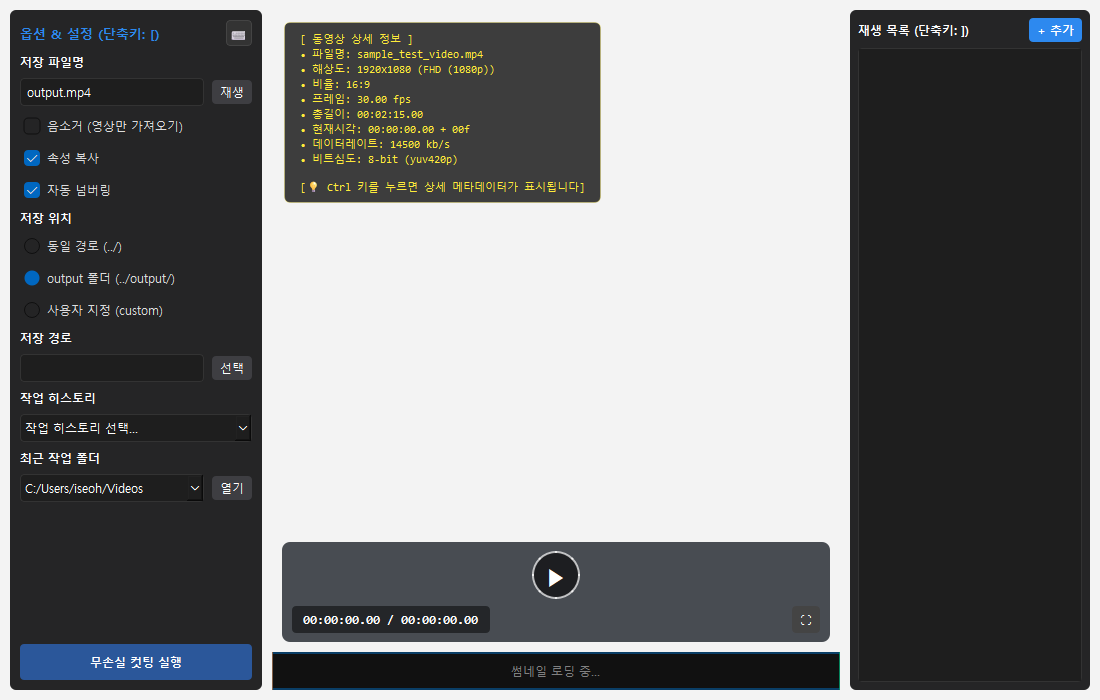
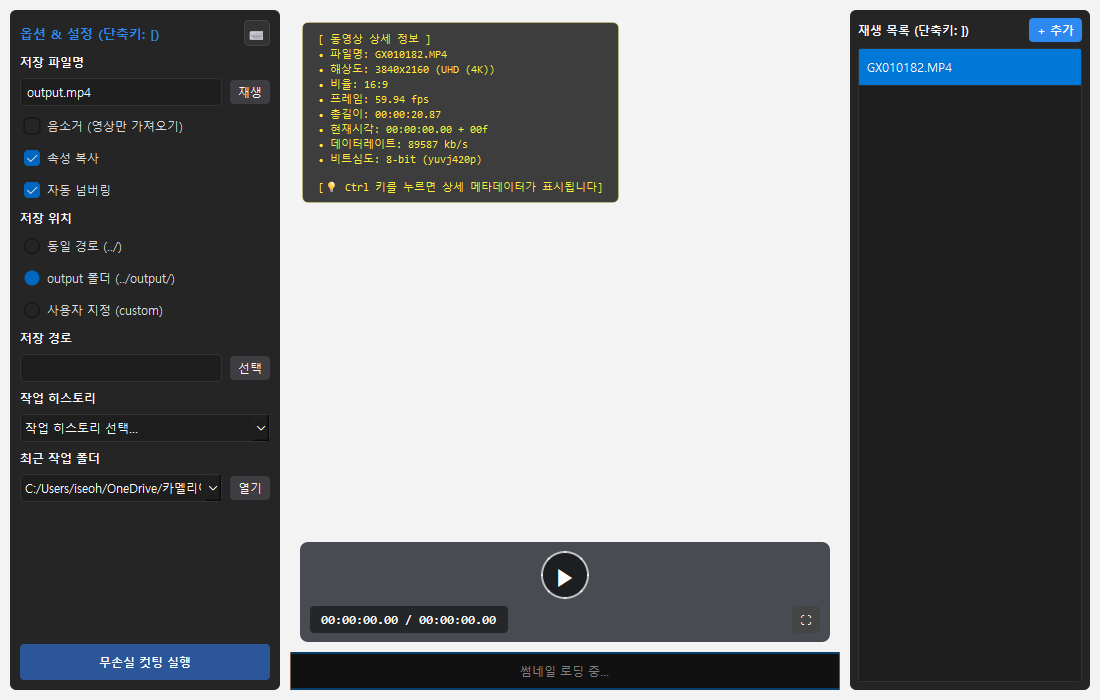
test: Add automated HUD diagnostic test and verify exact video area placement

diff --git a/test_subwindow_overlay.py b/test_subwindow_overlay.py
@@ -1,0 +1,56 @@
+import sys
+import os
+from PyQt6.QtWidgets import QApplication
+from PyQt6.QtCore import Qt, QTimer
+from src.ui.main_window import VideoCutterApp
+import src.core.metadata as metadata
+
+def main():
+    app = QApplication(sys.argv)
+    metadata.FORCE_CAPS_LOCK_DEBUG = True
+    
+    win = VideoCutterApp()
+    win.resize(1100, 700)
+    
+    # Configure info_overlay with SubWindow flags
+    player = win.player_widget
+    player.info_overlay.setParent(win)
+    player.info_overlay.setWindowFlags(Qt.WindowType.SubWindow | Qt.WindowType.FramelessWindowHint)
+    player.info_overlay.setAttribute(Qt.WidgetAttribute.WA_TransparentForMouseEvents, True)
+    player.info_overlay.setAttribute(Qt.WidgetAttribute.WA_ShowWithoutActivating, True)
+    
+    win.show()
+    
+    # Load actual video if exists
+    test_video = r"C:\Users\iseoh\OneDrive\카멜리아_20260712\1. Origin\GX010182.MP4"
+    if os.path.exists(test_video):
+        win.fileInput.setText(test_video)
+        print("[TEST] Loaded real video:", test_video)
+    else:
+        player.has_video_loaded = True
+        player.video_info = {
+            'width': 1920, 'height': 1080, 'nickname': 'FHD (1080p)',
+            'aspect_ratio': '16:9', 'fps': 30.0, 'duration': '00:00:20.87',
+            'bitrate': '14500 kb/s', 'bit_depth': '8-bit', 'pix_fmt': 'yuv420p',
+            'metadata': {'title': 'GX010182.MP4'}
+        }
+        player.video_path_cached = 'GX010182.MP4'
+        player.update_hud()
+
+    debug_dir = os.path.join(os.path.dirname(__file__), "debug_screenshots")
+    os.makedirs(debug_dir, exist_ok=True)
+    snap_path = os.path.join(debug_dir, "subwindow_overlay_test.png")
+
+    def capture():
+        pixmap = win.grab()
+        pixmap.save(snap_path)
+        print(f"[TEST] Captured screenshot: {snap_path}")
+        print(f"[TEST] Overlay flags: {player.info_overlay.windowFlags()}")
+        print(f"[TEST] Overlay isVisible: {player.info_overlay.isVisible()}")
+        app.quit()
+
+    QTimer.singleShot(1000, capture)
+    app.exec()
+
+if __name__ == "__main__":
+    main()

diff --git a/test_fixed_hud.py b/test_fixed_hud.py
@@ -1,0 +1,44 @@
+import sys
+import os
+from PyQt6.QtWidgets import QApplication
+from PyQt6.QtCore import Qt, QTimer
+from src.ui.main_window import VideoCutterApp
+import src.core.metadata as metadata
+
+def main():
+    app = QApplication(sys.argv)
+    metadata.FORCE_CAPS_LOCK_DEBUG = True
+    
+    win = VideoCutterApp()
+    win.resize(1100, 700)
+    win.show()
+    
+    player = win.player_widget
+    player.has_video_loaded = True
+    player.video_info = {
+        'width': 3840, 'height': 2160, 'nickname': 'UHD (4K)',
+        'aspect_ratio': '16:9', 'fps': 59.94, 'duration': '00:00:20.87',
+        'bitrate': '89587 kb/s', 'bit_depth': '8-bit', 'pix_fmt': 'yuvj420p',
+        'metadata': {'title': 'GX010182.MP4', 'encoder': 'GoPro H.265 encoder'}
+    }
+    player.video_path_cached = 'GX010182.MP4'
+    player.update_hud()
+
+    debug_dir = os.path.join(os.path.dirname(__file__), "debug_screenshots")
+    os.makedirs(debug_dir, exist_ok=True)
+    snap_path = os.path.join(debug_dir, "fixed_hud_result.png")
+
+    def capture():
+        pixmap = win.grab()
+        pixmap.save(snap_path)
+        print(f"[TEST] Captured screenshot: {snap_path}")
+        print(f"[TEST] HUD parent: {player.info_overlay.parent().metaObject().className()}")
+        print(f"[TEST] HUD isVisible: {player.info_overlay.isVisible()}")
+        print(f"[TEST] HUD pos relative to video_widget: {player.info_overlay.pos()}")
+        app.quit()
+
+    QTimer.singleShot(500, capture)
+    app.exec()
+
+if __name__ == "__main__":
+    main()